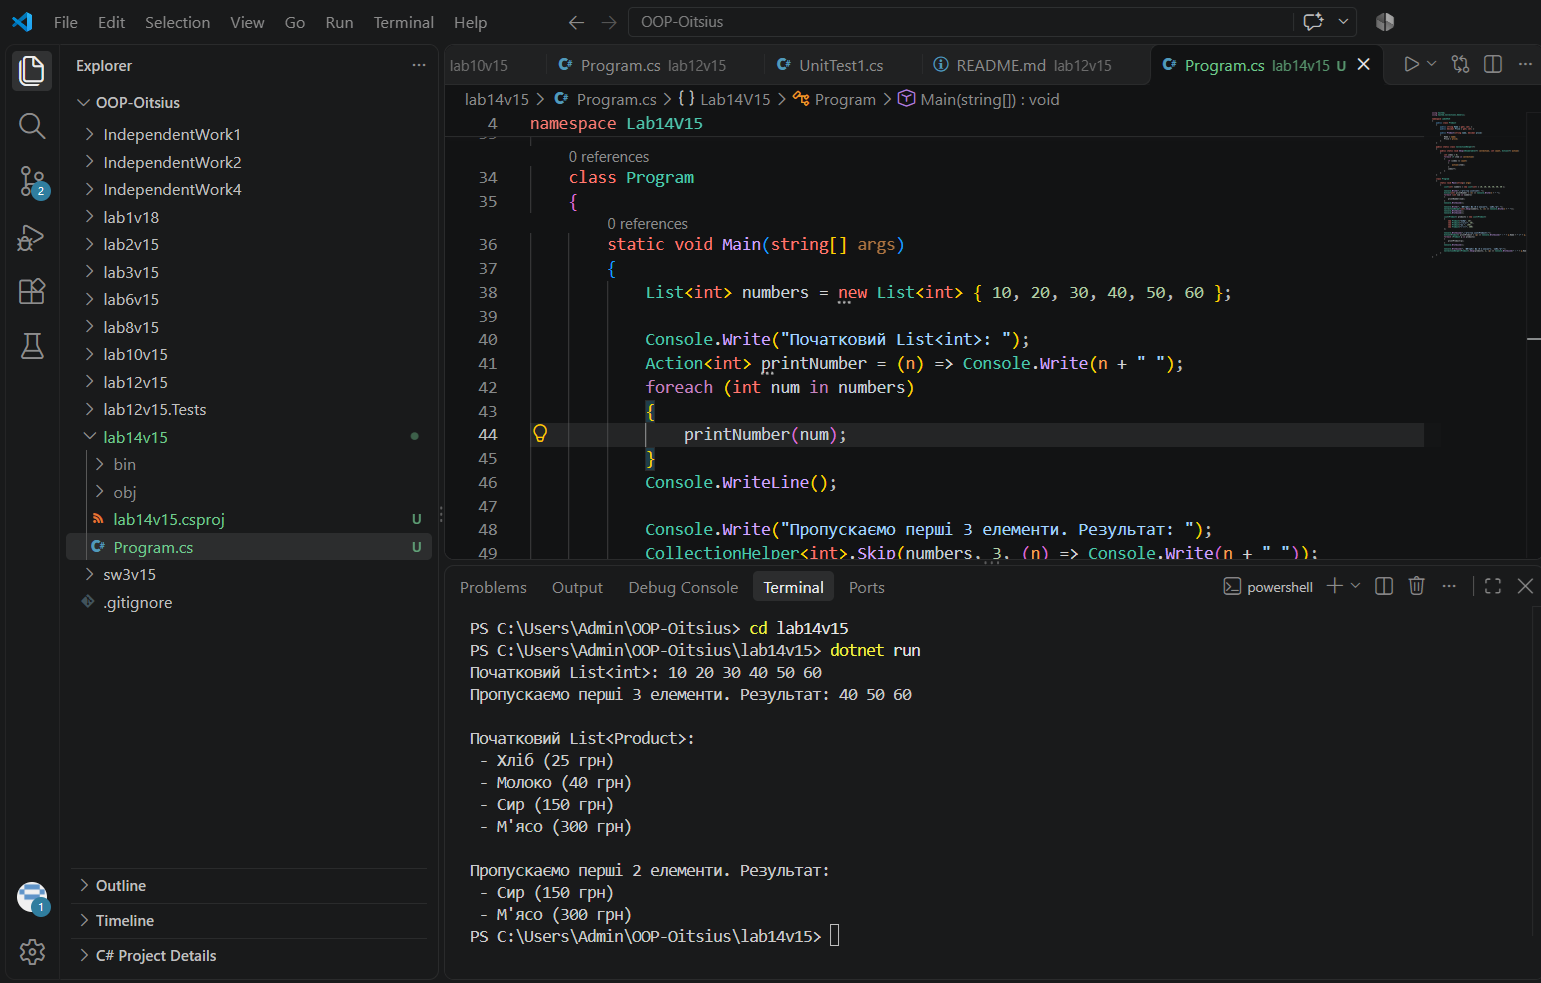
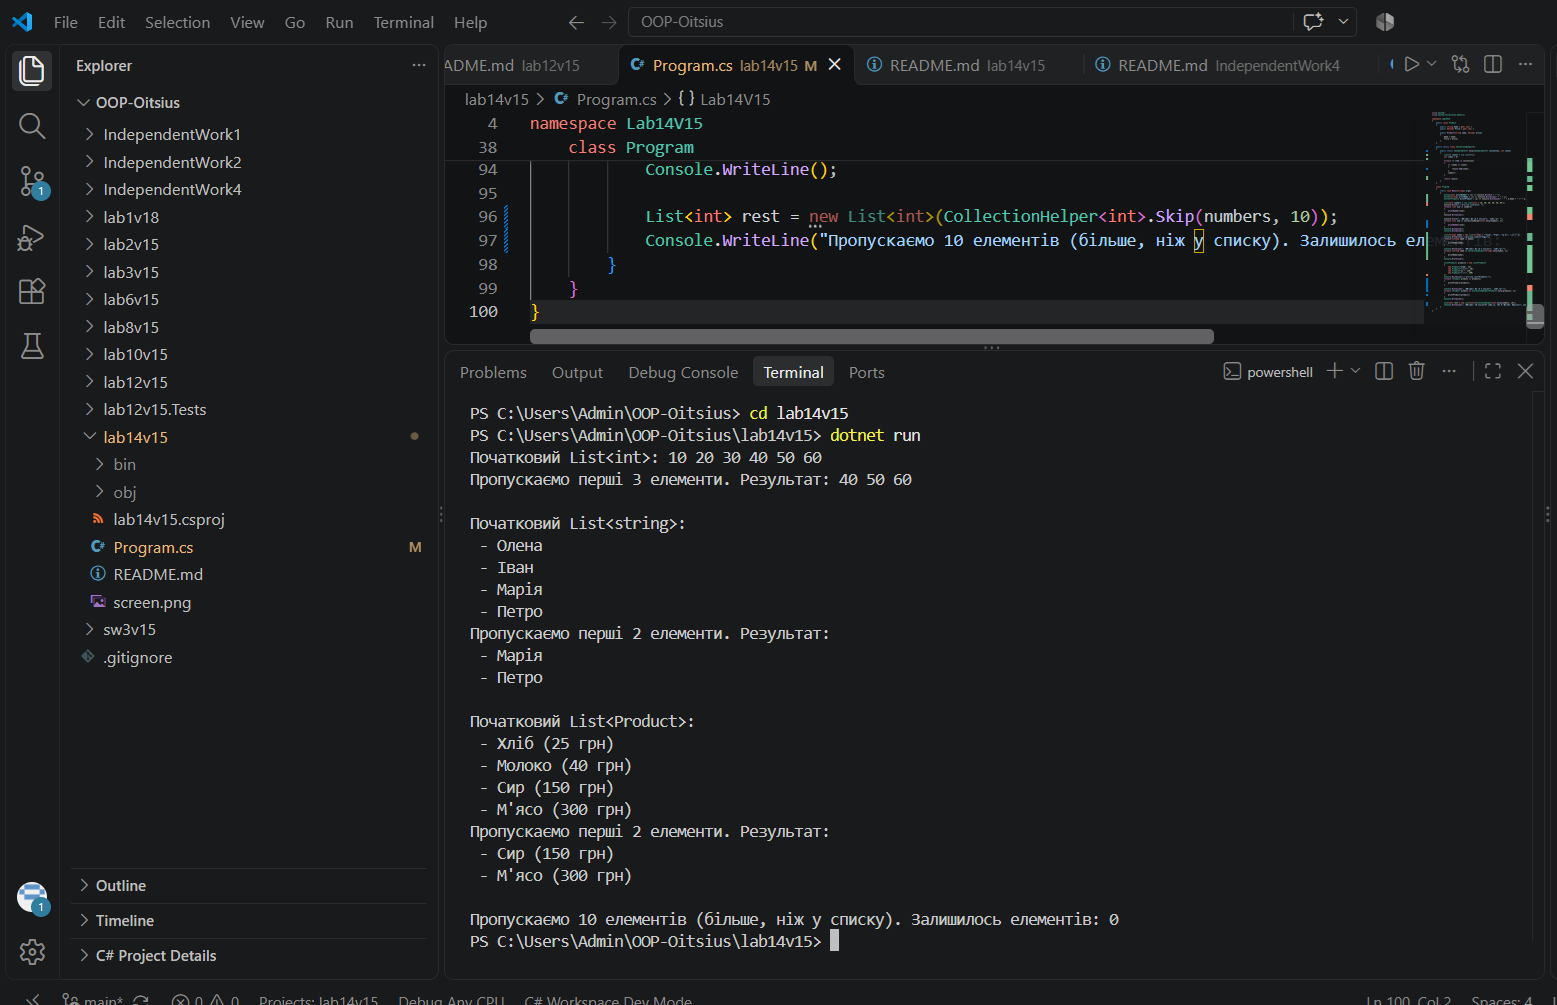
lab8 - final

diff --git a/lab14v15/Program.cs b/lab14v15/Program.cs
@@ -17,17 +17,21 @@ namespace Lab14V15
 
     public static class CollectionHelper<T>
     {
-        public static void Skip(IEnumerable<T> collection, int count, Action<T> action)
+        public static IEnumerable<T> Skip(IEnumerable<T> collection, int count)
         {
+            List<T> result = new List<T>();
             int index = 0;
+
             foreach (T item in collection)
             {
                 if (index >= count)
                 {
-                    action(item);
+                    result.Add(item);
                 }
                 index++;
             }
+
+            return result;
         }
     }
 
@@ -35,10 +39,12 @@ namespace Lab14V15
     {
         static void Main(string[] args)
         {
-            List<int> numbers = new List<int> { 10, 20, 30, 40, 50, 60 };
-            
-            Console.Write("Початковий List<int>: ");
             Action<int> printNumber = (n) => Console.Write(n + " ");
+            Action<string> printName = (s) => Console.WriteLine(" - " + s);
+            Action<Product> printProduct = (p) => Console.WriteLine(" - " + p.Name + " (" + p.Price + " грн)");
+
+            List<int> numbers = new List<int> { 10, 20, 30, 40, 50, 60 };
+            Console.Write("Початковий List<int>: ");
             foreach (int num in numbers)
             {
                 printNumber(num);
@@ -46,8 +52,25 @@ namespace Lab14V15
             Console.WriteLine();
 
             Console.Write("Пропускаємо перші 3 елементи. Результат: ");
-            CollectionHelper<int>.Skip(numbers, 3, (n) => Console.Write(n + " "));
+            foreach (int num in CollectionHelper<int>.Skip(numbers, 3))
+            {
+                printNumber(num);
+            }
             Console.WriteLine();
+            Console.WriteLine();
+
+            List<string> names = new List<string> { "Олена", "Іван", "Марія", "Петро" };
+            Console.WriteLine("Початковий List<string>:");
+            foreach (string name in names)
+            {
+                printName(name);
+            }
+
+            Console.WriteLine("Пропускаємо перші 2 елементи. Результат:");
+            foreach (string name in CollectionHelper<string>.Skip(names, 2))
+            {
+                printName(name);
+            }
             Console.WriteLine();
 
             List<Product> products = new List<Product>
@@ -57,17 +80,21 @@ namespace Lab14V15
                 new Product("Сир", 150),
                 new Product("М'ясо", 300)
             };
-
             Console.WriteLine("Початковий List<Product>:");
-            Action<Product> printProduct = (p) => Console.WriteLine(" - " + p.Name + " (" + p.Price + " грн)");
-            foreach (Product p in products)
+            foreach (Product product in products)
             {
-                printProduct(p);
+                printProduct(product);
+            }
+
+            Console.WriteLine("Пропускаємо перші 2 елементи. Результат:");
+            foreach (Product product in CollectionHelper<Product>.Skip(products, 2))
+            {
+                printProduct(product);
             }
             Console.WriteLine();
 
-            Console.WriteLine("Пропускаємо перші 2 елементи. Результат:");
-            CollectionHelper<Product>.Skip(products, 2, (p) => Console.WriteLine(" - " + p.Name + " (" + p.Price + " грн)"));
+            List<int> rest = new List<int>(CollectionHelper<int>.Skip(numbers, 10));
+            Console.WriteLine("Пропускаємо 10 елементів (більше, ніж у списку). Залишилось елементів: " + rest.Count);
         }
     }
 }

diff --git a/lab14v15/README.md b/lab14v15/README.md
@@ -1,8 +1,8 @@
 # Лабораторна робота №8
 
-**Тема:** Делегати й лямбда-вирази у практиці колекцій: CollectionHelper<T>.
+**Тема:** Делегати й лямбда-вирази у практиці колекцій: `CollectionHelper<T>`.
 
-**Варіант:** 15. Метод `Skip` — пропускає перші `count` елементів і повертає решту.
+**Варіант:** 15. Метод `Skip`: пропускає перші `count` елементів і повертає решту.
 
 ## Мета
 
@@ -10,17 +10,17 @@
 
 ## Що реалізовано
 
-- **Product**: власний клас-сутність (Name, Price) для демонстрації роботи з узагальненим методом на нетривіальному типі.
-- **CollectionHelper<T>**: статичний узагальнений клас-утиліта.
-- **Метод Skip (Варіант 15)**: `public static void Skip(IEnumerable<T> collection, int count, Action<T> action)`. Власна логіка реалізована через цикл `foreach` та лічильник (без використання вбудованого однойменного LINQ-оператора). Метод приймає делегат `Action<T>` для виконання операцій над елементами, що залишилися.
-- **Демонстрація в Main**: 
-  - Для `List<int>` — пропуск перших 3 елементів та вивід результату.
-  - Для `List<Product>` — пропуск перших 2 елементів та вивід результату.
+- **Product**: власний клас (Name, Price) для демонстрації роботи узагальненого методу на нетривіальному типі.
+- **CollectionHelper&lt;T&gt;**: статичний узагальнений клас-утиліта.
+- **Метод Skip (варіант 15)**: `public static IEnumerable<T> Skip(IEnumerable<T> collection, int count)`. Пропускає перші `count` елементів і повертає решту. Власна логіка реалізована через цикл `foreach` та лічильник, без використання однойменного LINQ-оператора.
+- **Демонстрація в Main**: для `List<int>` (пропуск перших 3 елементів), `List<string>` (пропуск перших 2), `List<Product>` (пропуск перших 2) і граничний випадок, коли пропускається більше елементів, ніж є в списку. Результати виводяться через лямбда-вирази, збережені в змінних `Action`.
 
 ## Запуск
 
+```
 cd lab14v15
 dotnet run
+```
 
 ## Результат виконання
 
@@ -29,13 +29,13 @@ dotnet run
 ## Контрольні питання
 
 **1. Що таке делегат і для чого він використовується?**
-Делегат — це тип, який представляє посилання на метод із певною сигнатурою (списком параметрів та типом повернення). Він використовується для передачі методів як параметрів, збереження їх у змінних та динамічного виклику. По суті, це безпечний до типів покажчик на функцію, який дозволяє реалізувати функціональне програмування в C#.
+Делегат — це тип, який представляє посилання на метод із певним списком параметрів та типом повернення. По суті, це безпечний до типів покажчик на функцію. Він використовується, щоб передавати методи як параметри, зберігати їх у змінних і викликати їх динамічно.
 
 **2. У чому полягає різниця між Func та Action?**
-`Action<T>` представляє метод, який приймає параметри, але **не повертає** значення (повертає `void`). `Func<T, TResult>` представляє метод, який приймає параметри і **повертає** значення типу `TResult` (останній тип-параметр завжди є типом повернення). У нашій роботі ми використовували `Action`, бо нам не потрібно було нічого повертати з методів обробки.
+`Action<T>` представляє метод, який приймає параметри, але не повертає значення (void). `Func<T, TResult>` представляє метод, який приймає параметри і повертає значення типу TResult, останній тип-параметр завжди є типом повернення. У нашій роботі ми використовували `Action`, бо нам не потрібно було нічого повертати, а лише виводити елементи в консоль.
 
 **3. Як лямбда-вирази спрощують роботу з делегатами?**
-Лямбда-вирази дозволяють писати анонімні функції дуже лаконічно (наприклад, `n => n * n`), не створюючи окремих іменованих методів. Це робить код більш читабельним та виразним, особливо при передачі поведінки в методи (як у нашому випадку, коли ми передавали лямбда-вирази для виводу через `Action`).
+Лямбда-вирази дозволяють записати анонімну функцію коротко, наприклад `n => n * n`, не створюючи окремий іменований метод. Це робить код лаконічнішим і читабельнішим. У нашій роботі лямбди збережені в змінних Action і використовуються для виводу елементів.
 
 **4. Які переваги дають узагальнені методи при роботі з колекціями?**
-Узагальнені методи (Generics) дають безпеку типів на етапі компіляції (не потрібно приводити типи вручну), покращують продуктивність (немає упаковки/розпаковки для типів-значень) і дозволяють писати код один раз, який працює з будь-яким типом даних (наприклад, наш `CollectionHelper<T>` працює і з `int`, і з `Product`).
+Узагальнені методи дають безпеку типів на етапі компіляції (не потрібно приводити типи вручну), кращу продуктивність (немає упаковки і розпаковки) і дозволяють написати код один раз для будь-якого типу даних. Наш `CollectionHelper<T>` працює і з `int`, і з `string`, і з `Product`.
